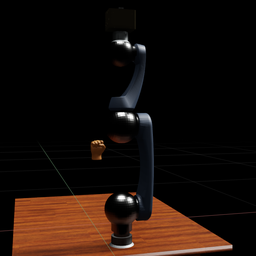
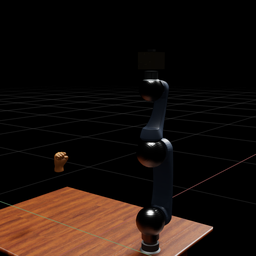
fixed follow_code

diff --git a/lwa4p_pg70/scripts/moveit.py b/lwa4p_pg70/scripts/moveit.py
@@ -13,17 +13,27 @@ scene = moveit_commander.PlanningSceneInterface()
 group_name = "arm"
 move_group = moveit_commander.MoveGroupCommander(group_name)
 display_trajectory_publisher = rospy.Publisher("/move_group/display_planned_path",moveit_msgs.msg.DisplayTrajectory,queue_size=10)
-
+x_coord = 0
+y_coord = 0
 pose_goal = geometry_msgs.msg.Pose()
 pose_goal.position.x = -0.112967695994757
-pose_goal.position.y = 0.006018764998501226
-pose_goal.position.z = 0.5771371180896465
+pose_goal.position.y = 0.006018764998501226 + (0.0007166156*-(x_coord-640))
+pose_goal.position.z = 0.5771371180896465 + (-0.00059120782*-(y_coord-360))
 pose_goal.orientation.x = 0.8105808128863473
 pose_goal.orientation.y = -0.00251992780272592
 pose_goal.orientation.z = 0.5856190782860292
 pose_goal.orientation.w = 0.0016403937941015566
 move_group.set_pose_target(pose_goal)
 move_group.go(wait=True)
+# pose_goal.position.x = -0.112967695994757 + 0.00105894065*0.7*0
+# pose_goal.position.y = 0.006018764998501226 + 0.00105894065*0.6*0
+# pose_goal.position.z = 0.5771371180896465 + 0.00111786963*0.6*0
+# pose_goal.orientation.x = 0.8105808128863473
+# pose_goal.orientation.y = -0.00251992780272592
+# pose_goal.orientation.z = 0.5856190782860292
+# pose_goal.orientation.w = 0.0016403937941015566
+# move_group.set_pose_target(pose_goal)
+# move_group.go(wait=True)
 # Note: We are just planning, not asking move_group to actually move the robot yet:
 
 current_pose = move_group.get_current_pose().pose

diff --git a/lwa4p_pg70/scripts/move_bot.py b/lwa4p_pg70/scripts/move_bot.py
@@ -11,23 +11,15 @@ def callback(msg,move_group):
     y_position = msg.data[1]
     # print (str(x_position) , str(y_position))
 
-    horizontal_scale = 0.00105894065
-    vertical_scale = 0.00111786963
+    horizontal_scale = 0.0007166156
+    vertical_scale = -0.00059120782
     waypoints = []
     wpose = move_group.get_current_pose().pose
     
-    if x_position > 640:
-        wpose.position.y += horizontal_scale * x_position  # and sideways (y)
-    else:
-        wpose.position.y -= horizontal_scale * x_position  # and sideways (y)
-    
-    waypoints.append(copy.deepcopy(wpose))
+    wpose.position.y = 0.006018764998501226-horizontal_scale * (x_position-640)  # and sideways (y)    
+    # waypoints.append(copy.deepcopy(wpose))
         
-    if y_position > 360:
-        wpose.position.z += horizontal_scale * y_position  # and upwards (z)
-    else:
-        wpose.position.z -= horizontal_scale * y_position  # and upwards (z)
-
+    wpose.position.z = 0.577137118089646+vertical_scale * (y_position-360)  # and upwards (z)
     waypoints.append(copy.deepcopy(wpose))
     
     (plan, fraction) = move_group.compute_cartesian_path(waypoints, 0.01, 0.0)  
@@ -53,6 +45,7 @@ def move_robot():
     move_group.set_pose_target(pose_goal)
     move_group.go()
     rospy.Subscriber('co_ords',Float32MultiArray,callback,move_group)
+    # rospy.sleep()
     rospy.spin()
     moveit_commander.roscpp_shutdown()
 

diff --git a/lwa4p_pg70/scripts/hand_detection_node.py b/lwa4p_pg70/scripts/hand_detection_node.py
@@ -45,9 +45,9 @@ def hand_detection(frame):
             mpDraw.draw_landmarks(frame, handLMs, mpHands.HAND_CONNECTIONS)
             message = Float32MultiArray()
             message.data = [(x_min + x_max)/2,(y_min + y_max)/2]
-            # message.position.y = (y_min + y_max)/2*0.0044
-            # message.position.z = 0.5165863795721032*0.0000005
-            # message.data = [(x_min + x_max)/2,(y_min + y_max)/2,0.5165863795721032]
+        # message.position.y = (y_min + y_max)/2*0.0044
+        # message.position.z = 0.5165863795721032*0.0000005
+        # message.data = [(x_min + x_max)/2,(y_min + y_max)/2,0.5165863795721032]
             coord_pub.publish(message)
             print("X: "+str(((x_min + x_max)/2)*1))
             print("Y: "+str(((y_min + y_max)/2)*1))
@@ -84,6 +84,7 @@ def recieve_message():
     rospy.init_node('video_subscriber',anonymous=True)
     rospy.Subscriber(topic_name,ImageMsg,image_callback)
     coord_pub = rospy.Publisher('co_ords',Float32MultiArray,queue_size=10)
+    rospy.Rate(0.5).sleep()
     rospy.spin()
     cv2.destroyAllWindows()
     
